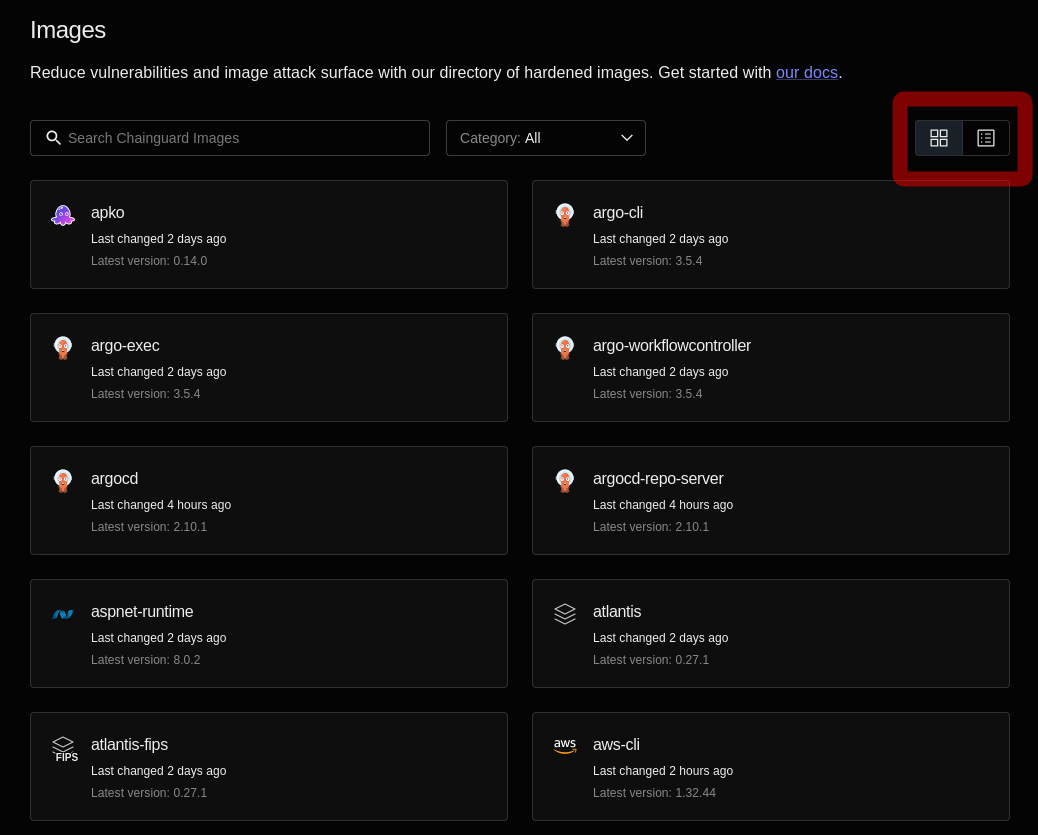
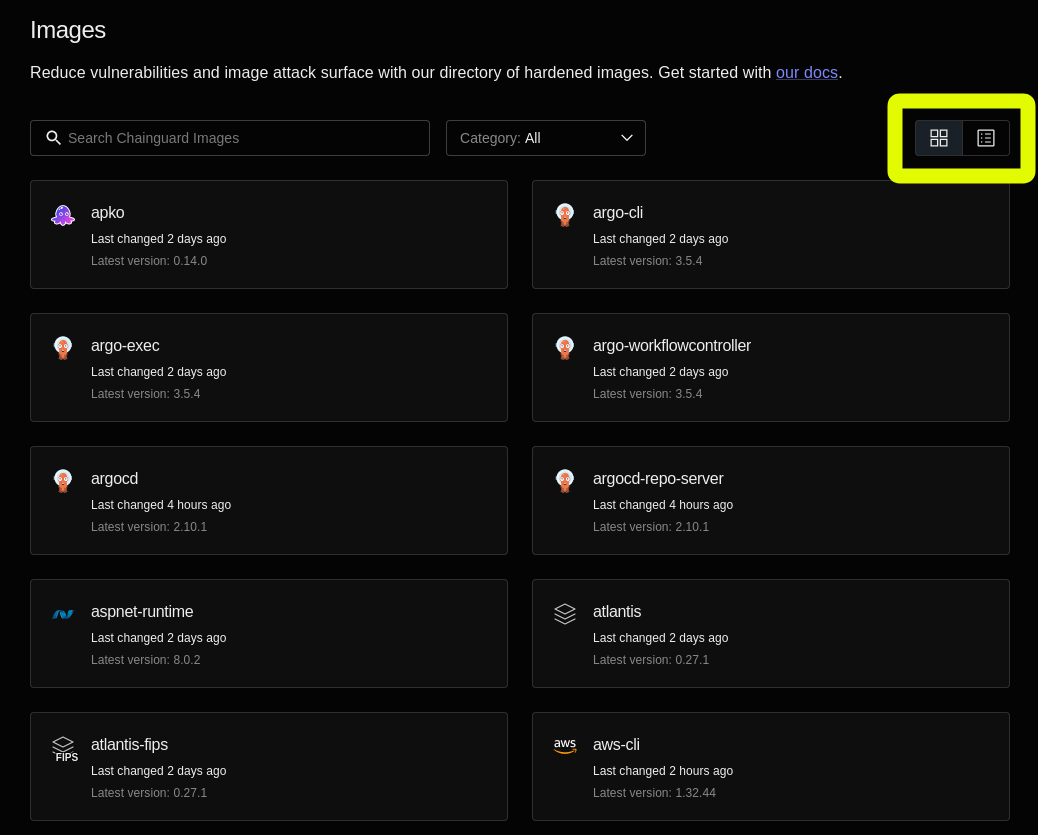
Lisa's suggestions

Changed region(s): [[0.8324, 0.0934, 1.0, 0.2491]]

diff --git a/content/chainguard/chainguard-images/images-directory/index.md b/content/chainguard/chainguard-images/images-directory/index.md
@@ -4,7 +4,7 @@ linktitle: "Images Directory"
 type: "article"
 description: "A walkthrough of the Chainguard Images directory."
 date: 2024-02-16T11:07:52+02:00
-lastmod: 2024-02-16T11:07:52+02:00
+lastmod: 2024-02-23T11:07:52+02:00
 draft: false
 tags: ["Conceptual", "Chainguard Images", "Product"]
 images: []
@@ -39,7 +39,7 @@ Click **Public Images** in the left-hand navigation to be taken to the Public Im
 
 You can toggle between a table view and a card-based view by clicking to the upper right of the Images directory.
 
-![Screenshot of the public Images directory in the Console showing the card view. The toggle buttons that switch between the card view and the table view are highlighted in a red box.](imgs-dir-3.png)
+![Screenshot of the public Images directory in the Console showing the card view. The toggle buttons that switch between the card view and the table view are highlighted in a yellow box.](imgs-dir-3.png)
 
 Let's continue using the tabular view for now, as this contains some more information than the card view.
 
